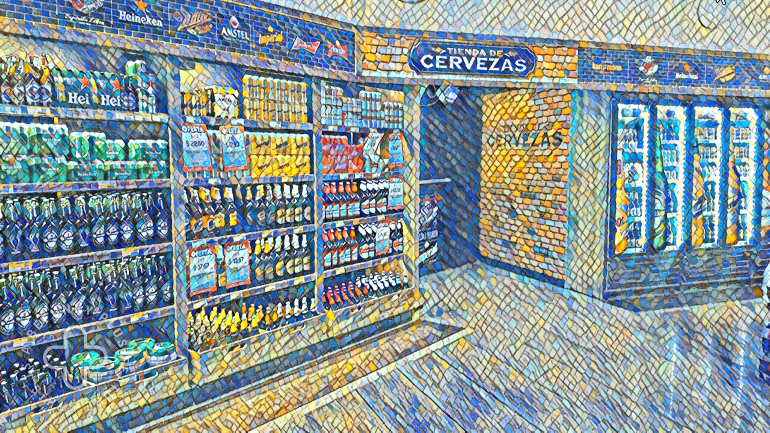
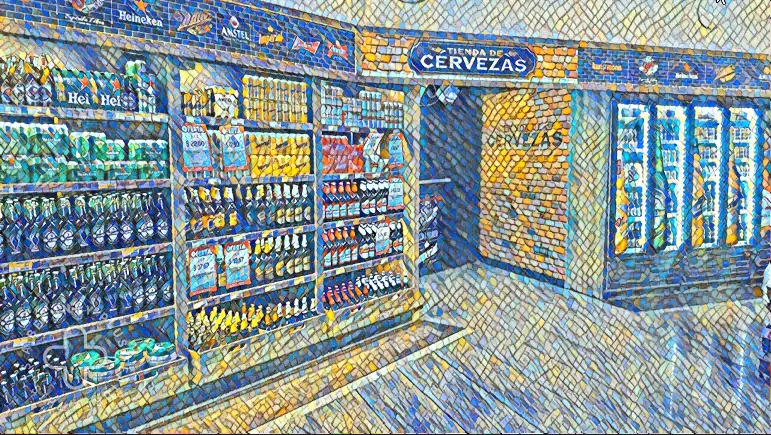
reduccion de tamaño de imagenes, inicializamos etiquetas para seo

diff --git a/sass/estilos.scss b/sass/estilos.scss
@@ -4,12 +4,3 @@
 @import "productos";
 @import "empresariales";
 @import "contactanos";
-
-/*
-Buenas, Luis! ¿Cómo va? Re bien el desafío, ya lo pasaste todo! Vas muy bien, la verdad! Te doy nuevas recomendaciones para el tema de sass
-
-En el nesting tenés muchos divs anidados, pero fijate que no tienen propiedades algunos, yo intentaría borrar algún div que pueda estar de más (fijate si se puede simplificar, si crees que no, está bien también) y también agregaría más clases en vez de selectores de etiqueta. Si de 5 div anidados logro que queden 3 y les pongo nombres de clases en el scss para que el nesting sea con esos nombres estaría genial!
-Tenés algunos lugares donde los extends irían perfectos! (o los mixins si quisieras) por ejemplo, fijate que proveedor1, 2, 3, 4 son exactamente iguales a excepción del grid area. Ahí tenés un candidato a extend, o a mixins si le agregás el grid area. Fijate de buscar todos esos puntos donde haya 3  o más propiedades para separarlos y ponerlos en algún extend o en un mixin. Con eso ya estás vas apuntando al trabajo final y te queda más eficiente el código.
-haría un archivo de scss para el header y otro diferente para el footer.
-Muy completo todo sass, ya se termina el curso!! Te felicito, Luis. Saludos!!
-*/

diff --git a/css/estilos.css b/css/estilos.css
@@ -730,12 +730,3 @@ footer {
     color: #ff5733; }
   75% {
     color: #fffaa8; } }
-
-/*
-Buenas, Luis! ¿Cómo va? Re bien el desafío, ya lo pasaste todo! Vas muy bien, la verdad! Te doy nuevas recomendaciones para el tema de sass
-
-En el nesting tenés muchos divs anidados, pero fijate que no tienen propiedades algunos, yo intentaría borrar algún div que pueda estar de más (fijate si se puede simplificar, si crees que no, está bien también) y también agregaría más clases en vez de selectores de etiqueta. Si de 5 div anidados logro que queden 3 y les pongo nombres de clases en el scss para que el nesting sea con esos nombres estaría genial!
-Tenés algunos lugares donde los extends irían perfectos! (o los mixins si quisieras) por ejemplo, fijate que proveedor1, 2, 3, 4 son exactamente iguales a excepción del grid area. Ahí tenés un candidato a extend, o a mixins si le agregás el grid area. Fijate de buscar todos esos puntos donde haya 3  o más propiedades para separarlos y ponerlos en algún extend o en un mixin. Con eso ya estás vas apuntando al trabajo final y te queda más eficiente el código.
-haría un archivo de scss para el header y otro diferente para el footer.
-Muy completo todo sass, ya se termina el curso!! Te felicito, Luis. Saludos!!
-*/

diff --git a/pages/nosotros.html b/pages/nosotros.html
@@ -4,7 +4,9 @@
     <meta charset="UTF-8">
     <meta http-equiv="X-UA-Compatible" content="IE=edge">
     <meta name="viewport" content="width=device-width, initial-scale=1.0">
-
+     <!-- SEO: palabras claves y contenido-->
+    <meta name="keywords" content="nosotros, conocenos">
+    <meta name="description" content="">
     <!-- link de css bootstrap-->
     <link href="https://cdn.jsdelivr.net/npm/bootstrap@5.1.3/dist/css/bootstrap.min.css" rel="stylesheet" integrity="sha384-1BmE4kWBq78iYhFldvKuhfTAU6auU8tT94WrHftjDbrCEXSU1oBoqyl2QvZ6jIW3" crossorigin="anonymous">
 

diff --git a/pages/contactanos.html b/pages/contactanos.html
@@ -4,7 +4,9 @@
     <meta charset="UTF-8">
     <meta http-equiv="X-UA-Compatible" content="IE=edge">
     <meta name="viewport" content="width=device-width, initial-scale=1.0">
-
+     <!-- SEO: palabras claves y contenido-->
+    <meta name="keywords" content="">
+    <meta name="description" content="">
     <!-- link de css bootstrap-->
     <link href="https://cdn.jsdelivr.net/npm/bootstrap@5.1.3/dist/css/bootstrap.min.css" rel="stylesheet" integrity="sha384-1BmE4kWBq78iYhFldvKuhfTAU6auU8tT94WrHftjDbrCEXSU1oBoqyl2QvZ6jIW3" crossorigin="anonymous">
 

diff --git a/pages/empresariales.html b/pages/empresariales.html
@@ -4,7 +4,9 @@
     <meta charset="UTF-8">
     <meta http-equiv="X-UA-Compatible" content="IE=edge">
     <meta name="viewport" content="width=device-width, initial-scale=1.0">
-
+     <!-- SEO: palabras claves y contenido-->
+    <meta name="keywords" content="">
+    <meta name="description" content="">
     <!-- link de css bootstrap-->
     <link href="https://cdn.jsdelivr.net/npm/bootstrap@5.1.3/dist/css/bootstrap.min.css" rel="stylesheet" integrity="sha384-1BmE4kWBq78iYhFldvKuhfTAU6auU8tT94WrHftjDbrCEXSU1oBoqyl2QvZ6jIW3" crossorigin="anonymous">
 

diff --git a/pages/productos.html b/pages/productos.html
@@ -4,7 +4,9 @@
     <meta charset="UTF-8">
     <meta http-equiv="X-UA-Compatible" content="IE=edge">
     <meta name="viewport" content="width=device-width, initial-scale=1.0">
-
+     <!-- SEO: palabras claves y contenido-->
+    <meta name="keywords" content="">
+    <meta name="description" content="">
     <!-- link de css bootstrap-->
     <link href="https://cdn.jsdelivr.net/npm/bootstrap@5.1.3/dist/css/bootstrap.min.css" rel="stylesheet" integrity="sha384-1BmE4kWBq78iYhFldvKuhfTAU6auU8tT94WrHftjDbrCEXSU1oBoqyl2QvZ6jIW3" crossorigin="anonymous">
 

diff --git a/index.html b/index.html
@@ -4,6 +4,9 @@
     <meta charset="UTF-8">
     <meta http-equiv="X-UA-Compatible" content="IE=edge">
     <meta name="viewport" content="width=device-width, initial-scale=1.0">
+    <!-- SEO: palabras claves y contenido-->
+    <meta name="keywords" content="">
+    <meta name="description" content="">
 
     <!-- link de css bootstrap-->
     <link href="https://cdn.jsdelivr.net/npm/bootstrap@5.1.3/dist/css/bootstrap.min.css" rel="stylesheet" integrity="sha384-1BmE4kWBq78iYhFldvKuhfTAU6auU8tT94WrHftjDbrCEXSU1oBoqyl2QvZ6jIW3" crossorigin="anonymous">
